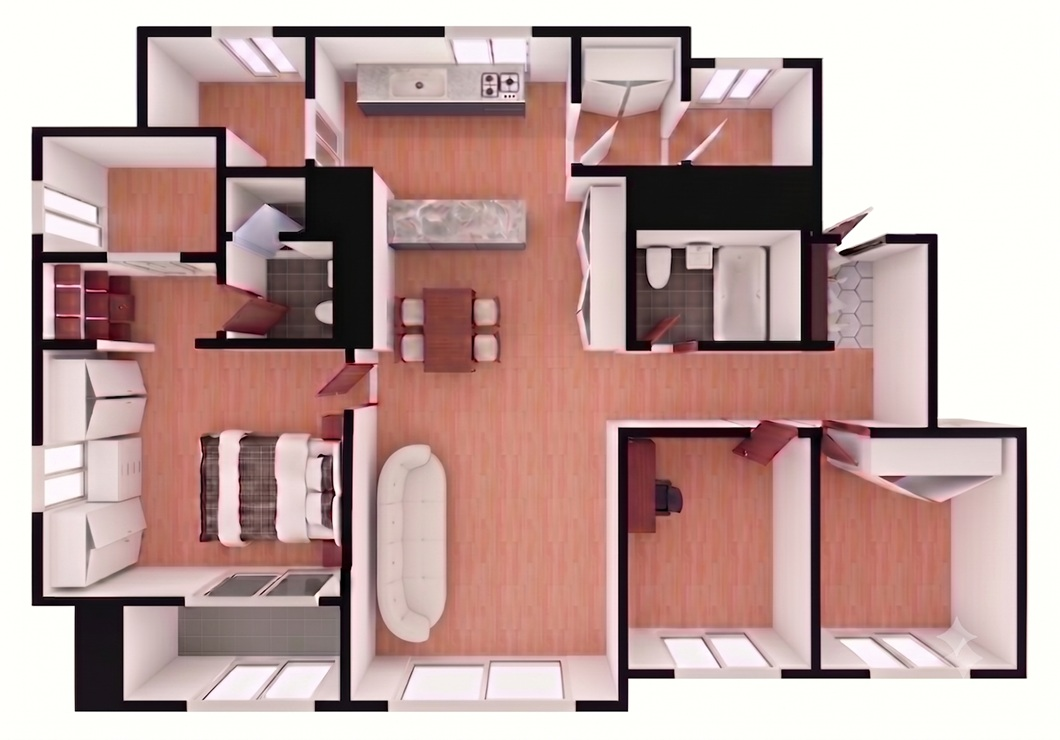
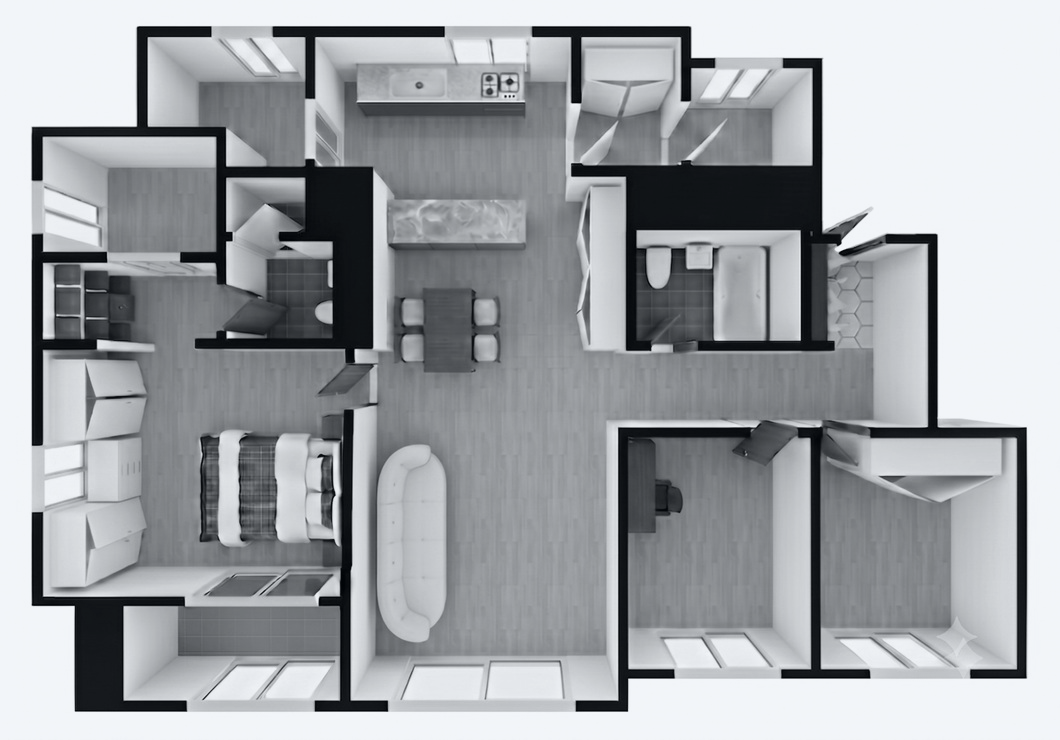
평면도 배경 흑백 톤, 마커 80% 축소, 팝업 중 다른 마커 흐림
- background.png를 흑백 95% + 네이비(#06438C) 5% 톤으로 바꿔 같은 파일에 덮어썼다.
  마커의 파란색이 도면 위에서 눈에 띄게 하려는 것이다.
- 마커 크기를 80%로 줄였다(24x36 -> 19.2x28.8, 최소 18x27 -> 14.4x21.6, 2:3 비율 유지).
  누르는 영역은 44px 그대로다.
- 수납장 물품 표(팝업)가 열려 있는 동안 열린 수납장이 아닌 마커를 50% 투명도로
  흐리게 해 어떤 마커를 골랐는지 알 수 있게 했다(marker--faded).
- 마커 크기 테스트를 새 값에 맞추고, CLAUDE.md에 변경 내용과 GitHub 원격 정보를 반영했다.

diff --git a/deploy/src/lib/__tests__/markerPosition.test.ts b/deploy/src/lib/__tests__/markerPosition.test.ts
@@ -107,15 +107,18 @@ describe("changedMarkers", () => {
 });
 
 describe("markerBox", () => {
-  it("도면 비율대로 위치와 크기를 정한다 (원본 크기 24×36)", () => {
-    expect(markerBox({ x: 530, y: 370 }, 1)).toEqual({ left: 530, top: 370, width: 24, height: 36 });
-    expect(markerBox({ x: 530, y: 370 }, 0.5)).toEqual({ left: 265, top: 185, width: 18, height: 27 });
+  it("도면 비율대로 위치와 크기를 정한다 (원본 크기 19.2×28.8 = 예전 24×36의 80%)", () => {
+    // 도면 폭(1060px)과 같은 scale 1: 크기는 정수 px로 반올림한다.
+    expect(markerBox({ x: 530, y: 370 }, 1)).toEqual({ left: 530, top: 370, width: 19, height: 29 });
+    expect(markerBox({ x: 530, y: 370 }, 1.2)).toEqual({ left: 636, top: 444, width: 23, height: 35 });
   });
 
-  it("작은 화면에서도 최소 크기(18×27) 아래로 줄지 않는다", () => {
+  it("작은 화면에서도 최소 크기(14.4×21.6 = 예전 18×27의 80%) 아래로 줄지 않는다", () => {
     const b = markerBox({ x: 100, y: 100 }, 0.3);
-    expect(b.width).toBe(18);
-    expect(b.height).toBe(27);
+    expect(b.width).toBeCloseTo(14.4, 5);
+    expect(b.height).toBeCloseTo(21.6, 5);
+    // 최소 크기에서도 마커 이미지의 2:3 비율이 유지된다.
+    expect(b.height / b.width).toBeCloseTo(1.5, 5);
   });
 });
 

diff --git a/deploy/src/lib/constants.ts b/deploy/src/lib/constants.ts
@@ -16,16 +16,17 @@ export const DEBOUNCE_MS = 200;
  * Tall map-pin proportion. `<Marker>`는 이 값에 현재 캔버스 스케일을 곱해 실제 픽셀 크기로
  * 렌더링하므로, 도면이 줄어들면 마커도 비례해서 같이 줄어든다.
  * 마커는 `transform: translate(-50%, -50%)`로 (x_pos, y_pos)에 중심 정렬.
+ * 원래 크기는 24×36이었고, 평면도에서 덜 가리도록 80%(19.2×28.8)로 줄였다. 비율은 2:3 그대로다.
  */
-export const MARKER_WIDTH = 24;
-export const MARKER_HEIGHT = 36;
+export const MARKER_WIDTH = 19.2;
+export const MARKER_HEIGHT = 28.8;
 
 /**
- * 도면이 작아져도(휴대폰) 마커가 이보다 작아지지는 않는다 (px).
+ * 도면이 작아져도(휴대폰) 마커가 이보다 작아지지는 않는다 (px). 원래 최소 18×27의 80%다.
  * 눈에 띄는 최소 크기이며, 누르는 영역은 CSS에서 40px 이상으로 따로 넓힌다.
  */
-export const MARKER_MIN_WIDTH = 18;
-export const MARKER_MIN_HEIGHT = 27;
+export const MARKER_MIN_WIDTH = 14.4;
+export const MARKER_MIN_HEIGHT = 21.6;
 
 /**
  * 위치 수정 모드에서 모든 마커의 이름표를 한꺼번에 보이는 최소 평면도 폭(px).

diff --git a/deploy/src/components/Marker.tsx b/deploy/src/components/Marker.tsx
@@ -30,6 +30,8 @@ export interface MarkerProps {
   editing?: boolean;
   /** 마커 수정 모드에서 선택된 마커(삭제 대상). 네이비 테두리와 이름표로 표시한다. */
   selected?: boolean;
+  /** 다른 수납장의 물품 표가 열려 있는 동안 이 마커를 50% 투명도로 흐리게 한다. */
+  faded?: boolean;
   /** 이름표를 보일지. 강조 중이거나 수정 모드에서 부모가 정한다. */
   showLabel?: boolean;
   /** 이름표를 위/아래 중 어디에 둘지. 없으면 도면 위쪽 가장자리일 때만 아래로 내린다. */
@@ -63,6 +65,7 @@ export function Marker({
   highlighted = false,
   editing = false,
   selected = false,
+  faded = false,
   showLabel = false,
   labelSide,
   onClick,
@@ -140,6 +143,7 @@ export function Marker({
     highlighted ? "marker--highlight" : "",
     editing ? "marker--editing" : "",
     editing && selected ? "marker--selected" : "",
+    faded ? "marker--faded" : "",
     editing && dragging ? "marker--dragging" : "",
   ]
     .filter(Boolean)

diff --git a/deploy/src/components/MarkerLayer.tsx b/deploy/src/components/MarkerLayer.tsx
@@ -10,6 +10,11 @@ export interface MarkerLayerProps {
   wrapperWidth: number;
   /** 검색 결과로 강조된 수납장. */
   highlightedLocationId: UUID | null;
+  /**
+   * 물품 표(팝업)가 열려 있는 수납장. 있으면 어떤 마커를 골랐는지 알 수 있도록
+   * 나머지 마커를 50% 투명도로 흐리게 한다.
+   */
+  openLocationId?: UUID | null;
   editor: Pick<
     UseMarkerEditorResult,
     | "editing"
@@ -43,6 +48,7 @@ export function MarkerLayer({
   locations,
   wrapperWidth,
   highlightedLocationId,
+  openLocationId = null,
   editor,
   onMarkerClick,
 }: MarkerLayerProps) {
@@ -84,6 +90,7 @@ export function MarkerLayer({
             highlighted={highlighted}
             editing={editing}
             selected={editing && loc.id === activeId}
+            faded={openLocationId !== null && loc.id !== openLocationId}
             showLabel={
               highlighted || showAllLabels || (editing && loc.id === activeId)
             }

diff --git a/deploy/src/lib/__tests__/sanity.test.ts b/deploy/src/lib/__tests__/sanity.test.ts
@@ -22,8 +22,9 @@ describe("sanity", () => {
 
   it("exposes validation/debounce/image constants", () => {
     expect(DEBOUNCE_MS).toBeGreaterThan(0);
-    expect(MARKER_WIDTH).toBe(24);
-    expect(MARKER_HEIGHT).toBe(36);
+    // 예전 24×36의 80%
+    expect(MARKER_WIDTH).toBeCloseTo(24 * 0.8, 5);
+    expect(MARKER_HEIGHT).toBeCloseTo(36 * 0.8, 5);
     expect(MAX_HASHTAGS).toBe(4);
     expect(MAX_NAME_LEN).toBe(20);
     expect(MAX_HASHTAG_LEN).toBe(20);

diff --git a/deploy/src/App.tsx b/deploy/src/App.tsx
@@ -291,6 +291,7 @@ export function App() {
                   locations={locations}
                   wrapperWidth={wrapperWidth}
                   highlightedLocationId={highlightedLocationId}
+                  openLocationId={selectedLocation?.id ?? null}
                   editor={editor}
                   onMarkerClick={handleMarkerClick}
                 />

diff --git a/deploy/src/components/Marker.css b/deploy/src/components/Marker.css
@@ -113,6 +113,11 @@
   font-weight: 600;
 }
 
+/* ---- 물품 표(팝업)가 열려 있는 동안: 열린 수납장이 아닌 마커 ---- */
+.marker--faded {
+  opacity: 0.5;
+}
+
 /* ---- 마커 수정 모드 ---- */
 .marker--editing {
   cursor: grab;

diff --git a/CLAUDE.md b/CLAUDE.md
@@ -98,11 +98,12 @@ npm run build       # tsc -b && vite build → dist/
 - 강조 해제: 검색창 비우기, 다른 결과 클릭, 결과 행 밖 아무 곳 클릭(document click 리스너. 결과 표는 `data-keep-highlight`로 표시).
 - 강조 중에는 `FloorPlan`이 `dimmed` → 배경 투명도 0.7→0.45, 다른 마커 0.35.
 - 검색 결과 클릭 시 ItemPopup은 자동으로 열지 않는다. 사용자가 강조된 마커를 직접 누른다.
+- ItemPopup이 열려 있는 동안에는 어떤 마커를 골랐는지 알 수 있도록 **열린 수납장이 아닌 마커를 50% 투명도로 흐리게** 한다(`MarkerLayer`의 `openLocationId` → `Marker`의 `faded` → `marker--faded`). 선택한 마커가 팝업에 가려지는 것은 알려진 한계로 두었다.
 
 ### 좌표계와 마커
 - 평면도 = **1060×740 가상 캔버스**. DB의 `x_pos`, `y_pos`는 이 기준 정수 픽셀이다.
 - `FloorPlan`이 `ResizeObserver`로 실제 폭 W를 재고 render prop `children(wrapperWidth)`로 넘긴다. `scale = W / 1060`을 x, y에 똑같이 적용한다.
-- 마커는 **중심**이 좌표에 온다. 크기는 원본 24×36에 scale을 곱하되 **최소 18×27**이다(휴대폰에서 너무 작아지지 않게). 누르는 영역은 `Marker.css`의 `::before`로 44px까지 넓혀 있다. 좌표·크기 계산은 `lib/markerPosition.ts`의 순수 함수(`markerBox` 등)이고 테스트가 있다.
+- 마커는 **중심**이 좌표에 온다. 크기는 원본 19.2×28.8(예전 24×36의 80%)에 scale을 곱하되 **최소 14.4×21.6**이다(휴대폰에서 너무 작아지지 않게. 비율 2:3 유지). 누르는 영역은 `Marker.css`의 `::before`로 44px까지 넓혀 있다. 좌표·크기 계산은 `lib/markerPosition.ts`의 순수 함수(`markerBox` 등)이고 테스트가 있다.
 - **강조**: 무한 펄스 대신 고정 링 + 이름표(네이비 면) + 퍼져 나가는 링 **3번**. (hallmark가 반복 장식을 금지한다)
 
 ### 마커 추가
@@ -191,7 +192,8 @@ npm run build       # tsc -b && vite build → dist/
 - **📷 이모지**: 사진이 등록된 물건의 "사진 보기" 버튼에만 쓴다. 사용자 지시다. 다른 곳에는 이모지를 쓰지 않는다(`PhotoButton`).
 - **사이드바 없음, 가운데 열 1200px 제한 없음**: 화면이 하나뿐이고 평면도와 표를 나란히 두는 작업대라 시트 전체 폭을 쓴다.
 - **강조 효과**: hallmark는 반복 애니메이션을 금지하므로 무한 펄스를 쓰지 않는다. 고정 링과 이름표 + 3번만 퍼지는 링이다.
-- **`marker.png`, `background.png`**: 광택 있는 이미지 자산이다. 지도 내용이라 그대로 둔다.
+- **`marker.png`**: 광택 있는 이미지 자산이다. 지도 내용이라 그대로 둔다.
+- **`background.png`**: 흑백 95% + 네이비(`#06438C`) 5%로 색조를 바꾼 평면도다(2026-11-25). 마커의 파란색이 도면 위에서 눈에 띄게 하려는 것이고, 채널 차이가 최대 7/255라 거의 회색으로 보인다. 원본 컬러 이미지는 git 이력(`01e41a7` 이전)에 있다.
 - 굵기는 400·500·600·700을 모두 쓴다(700은 로고·표 머리글·시트 탭).
 - hallmark의 **브라우저 검사기(`checker.html`)는 돌리지 못했다.** 대신 금지 패턴 검색과 1920×1080, 1440×900, 768×1024, 375×812 실제 화면 확인으로 갈음했다.
 
@@ -220,5 +222,5 @@ npm run build       # tsc -b && vite build → dist/
 ## Git
 
 - 기본 브랜치 `main`. Vercel은 `main` push 시 자동 배포된다(연결된 경우).
-- GitHub 원격은 아직 없다. 사용자가 다듬은 뒤 push할 예정이다.
+- GitHub 원격: `https://github.com/WS-Chung/findmythings`(`origin`). 2026-11-25에 이전 버전 이력(루트에 `src/`가 있던 25개 커밋)을 force push로 덮어썼다. **Vercel 프로젝트의 Root Directory는 `deploy`여야 빌드된다**(루트로 두면 `vite: command not found`로 실패한다).
 - 초기 셋업·배포 절차(SQL 실행 순서, Vercel 설정)는 `README.md`에 있다.
